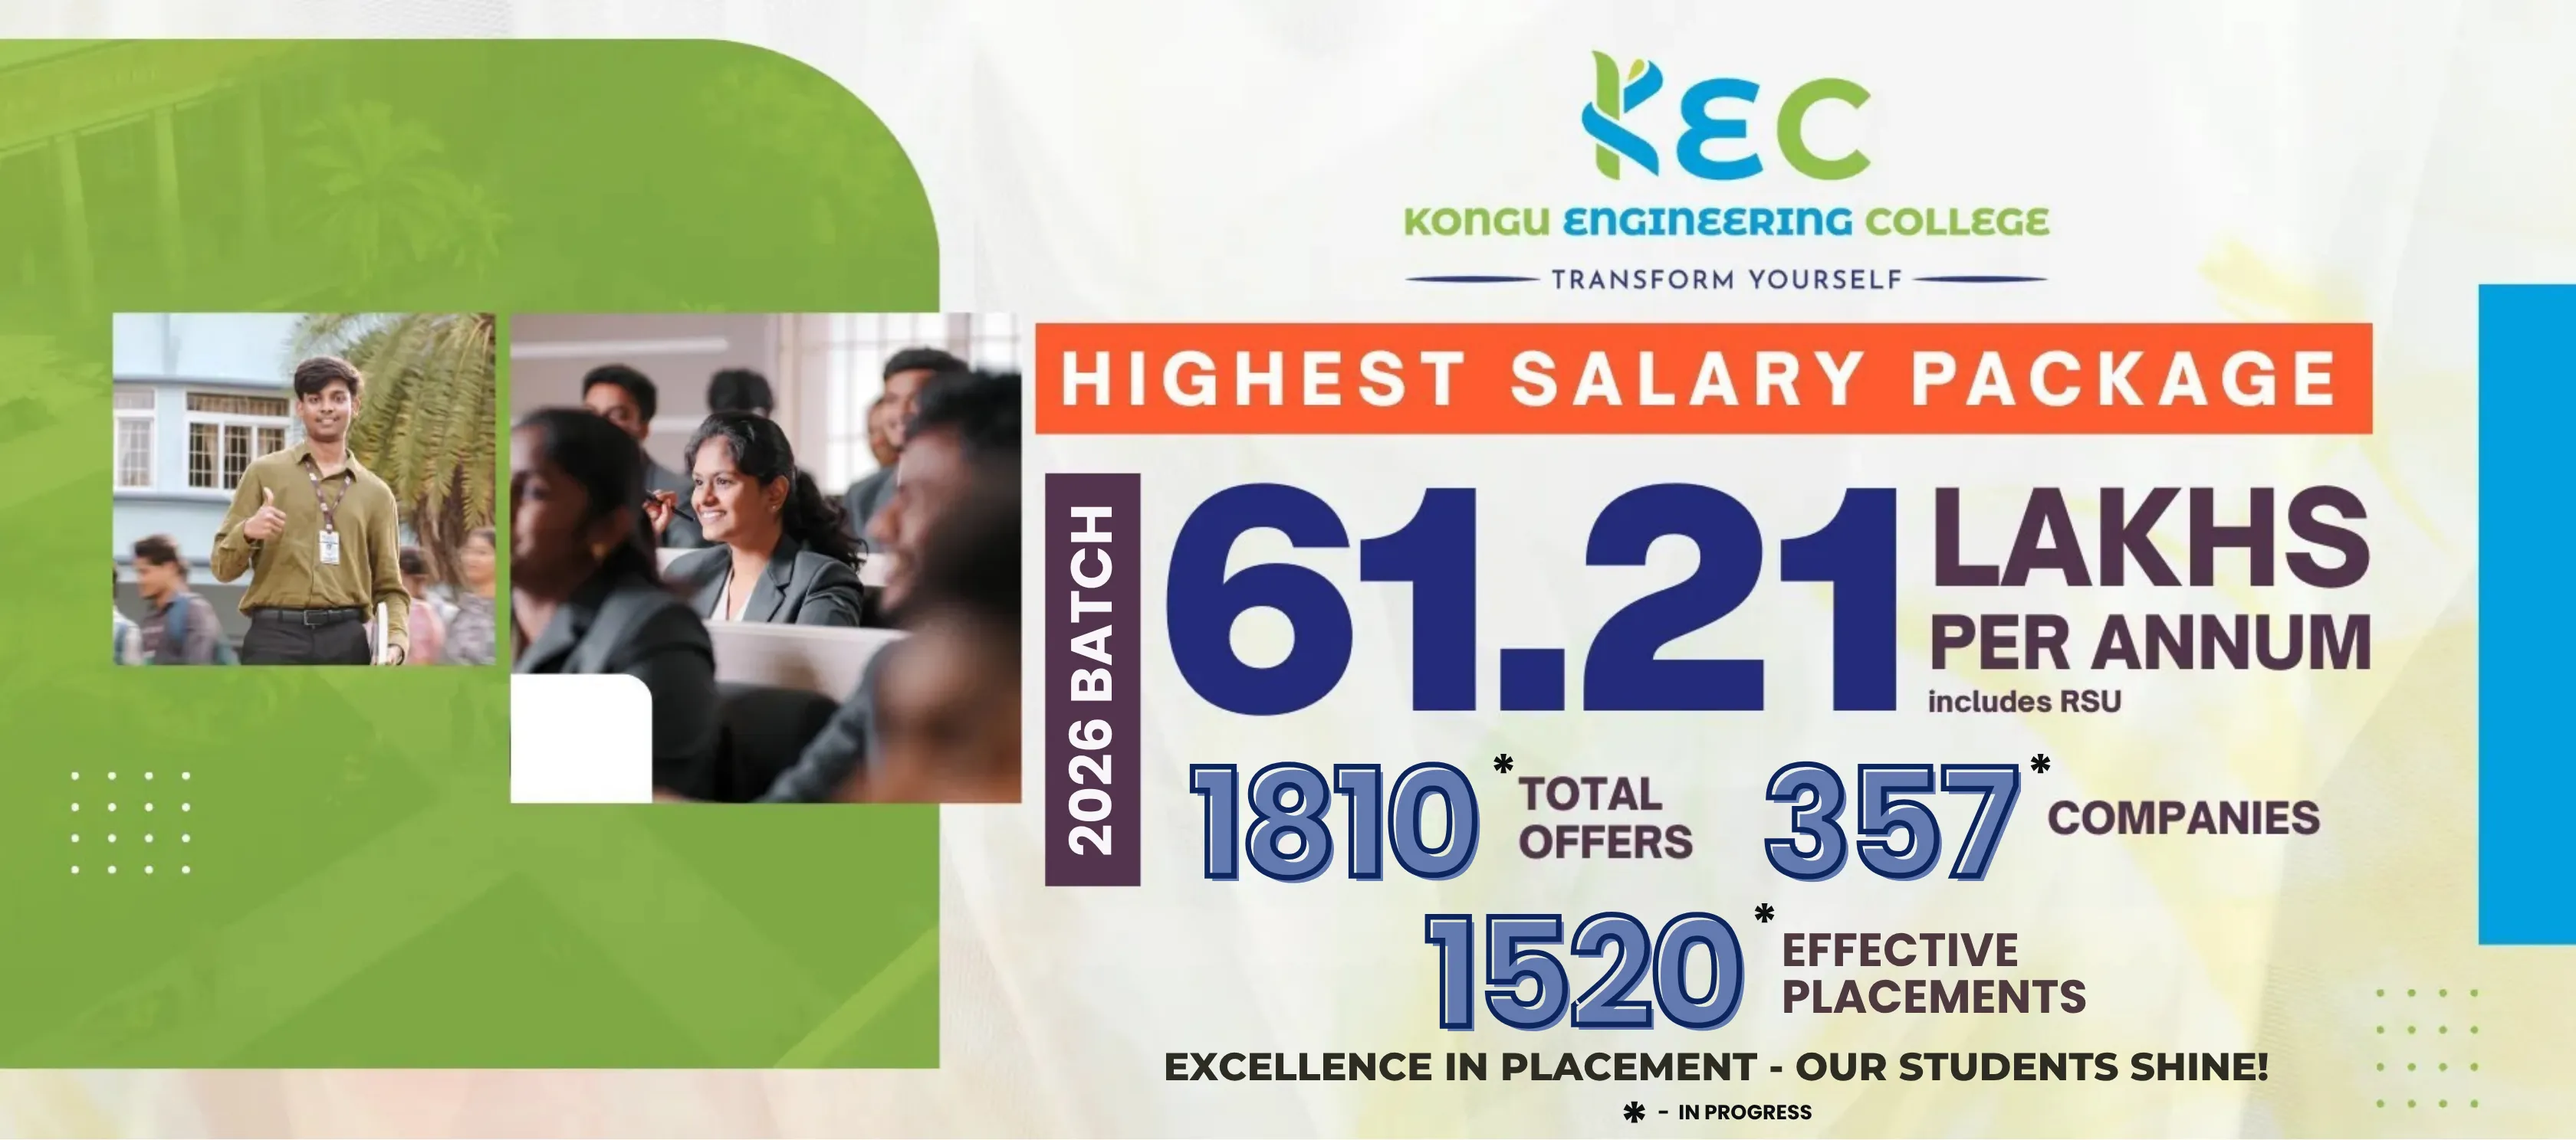
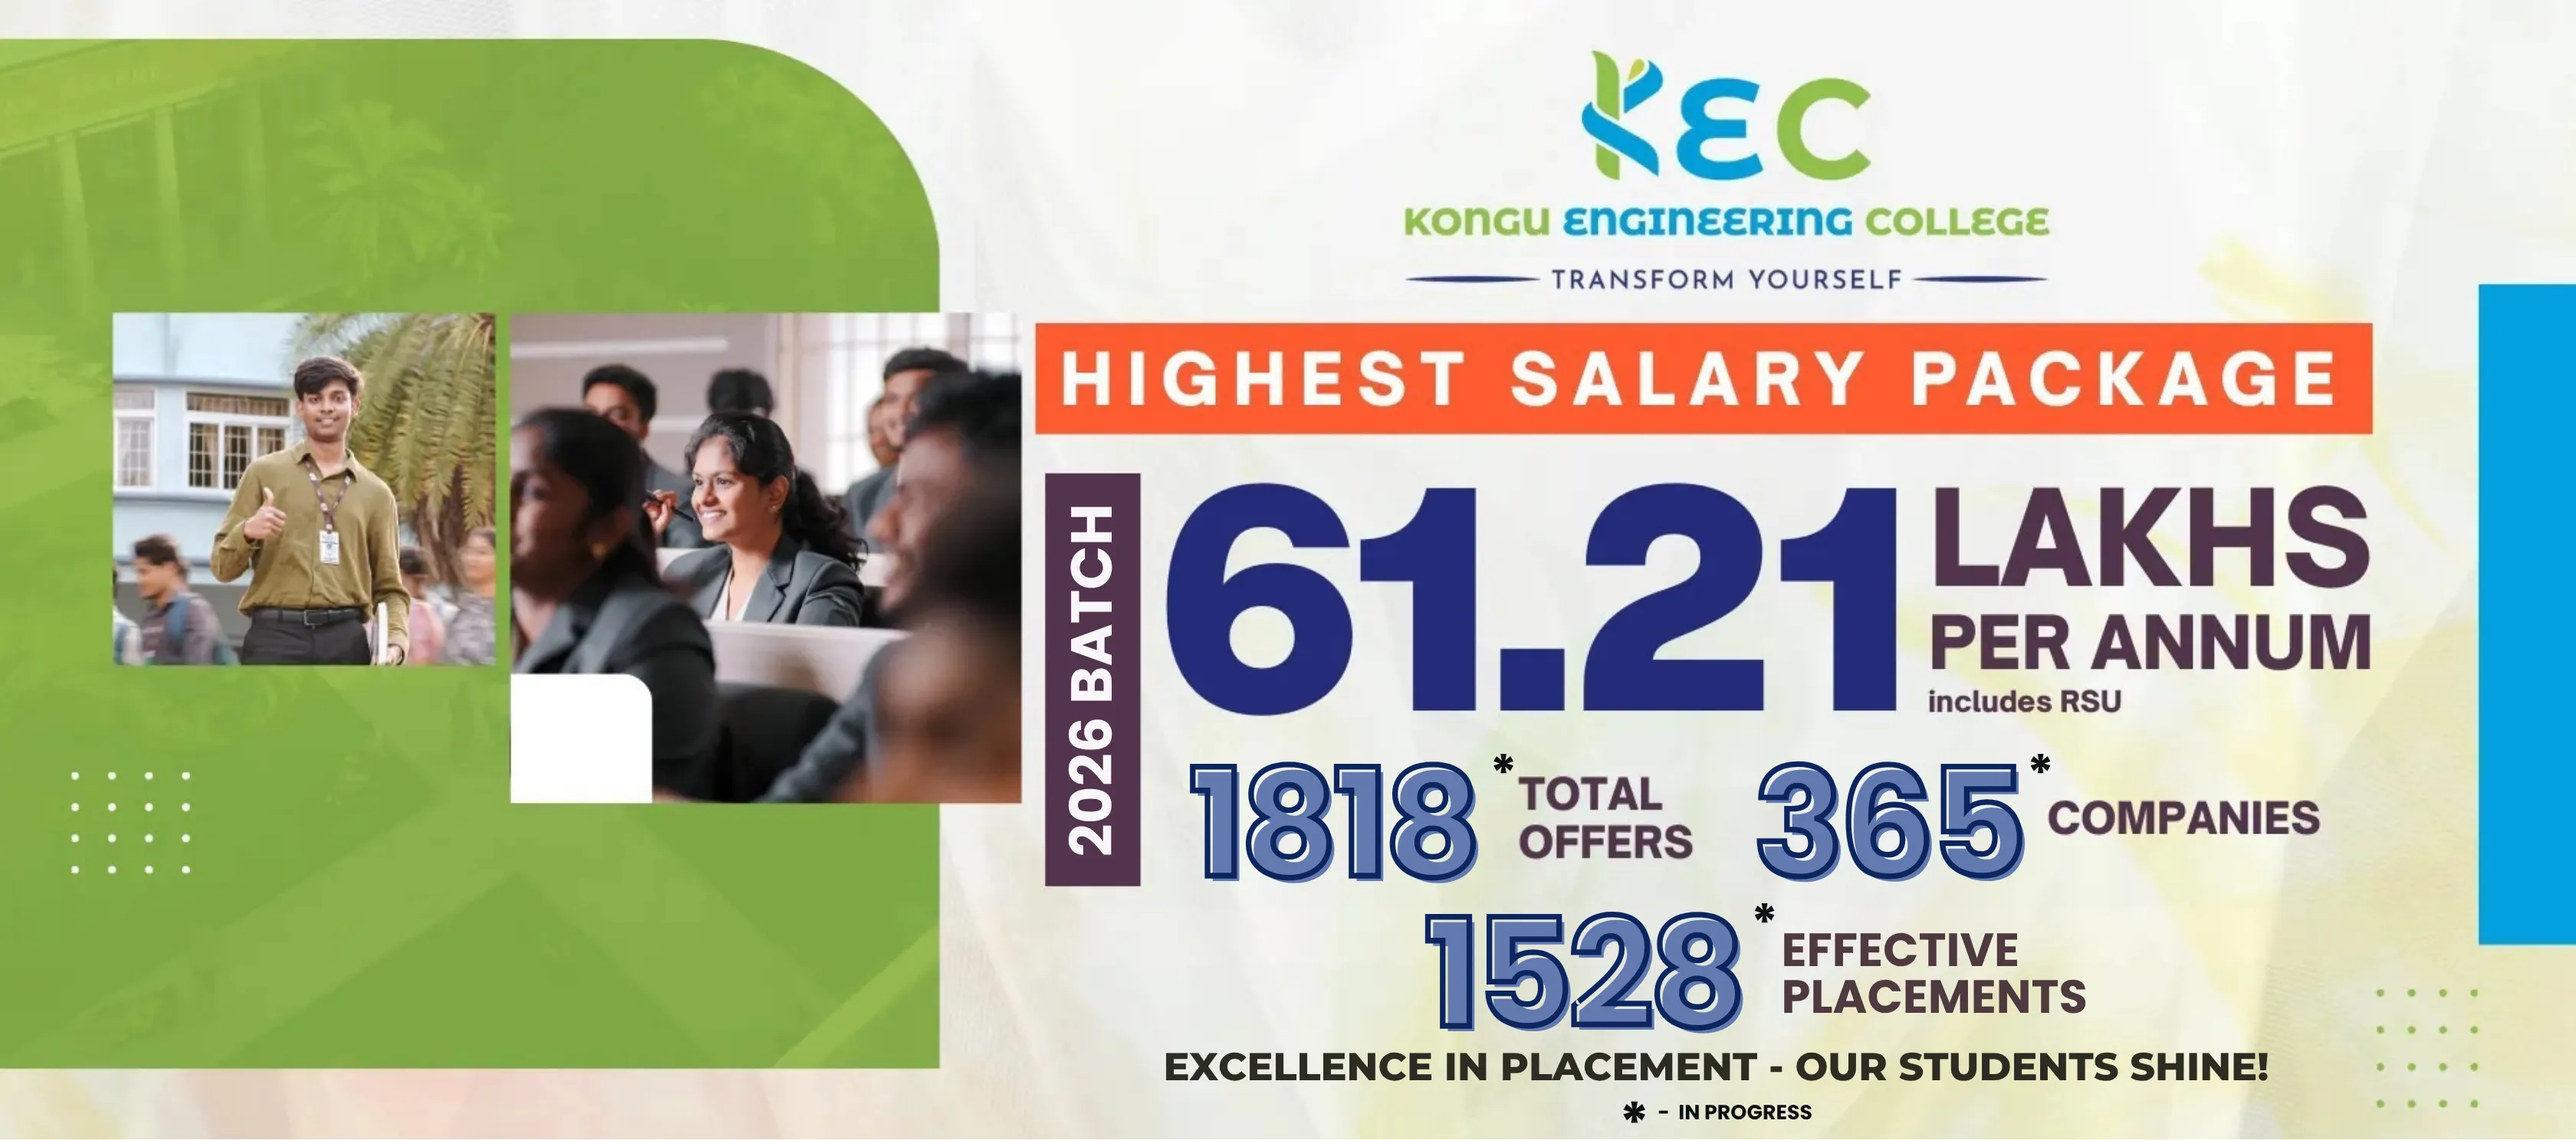
placement updated

Changed region(s): [[0.6875, 0.6492, 0.8125, 0.7728], [0.625, 0.8038, 0.6875, 0.9274], [0.5312, 0.6801, 0.5938, 0.7728]]

diff --git a/src/components/ExtraPages/PlacementSection/Placement.jsx b/src/components/ExtraPages/PlacementSection/Placement.jsx
@@ -168,13 +168,6 @@ export const teamData = [
     mobile: "7373675915",
     img: team4,
   },
-  {
-    id: 5,
-    name: "Mr.G.Srivaths Karthic",
-    role: "Assistant Placement Officer",
-    mobile: "9442751513",
-    img: team5,
-  },
 ];
 
 const Placement = () => {
@@ -412,7 +405,7 @@ const Placement = () => {
                 <img src={card1} alt="Companies Visited Icon" />
               </div>
 
-              <div className="Placement-stat-valu">357</div>
+              <div className="Placement-stat-valu">365</div>
             </div>
 
             <div className="ps-stat-card blue center">
@@ -424,7 +417,7 @@ const Placement = () => {
                 <img src={card2} alt="Students Placed Icon" />
               </div>
 
-              <div className="Placement-stat-valu">1520</div>
+              <div className="Placement-stat-valu">1528</div>
             </div>
 
             <div className="ps-stat-card green">

diff --git a/src/components/Admission/AdmissionPage.jsx b/src/components/Admission/AdmissionPage.jsx
@@ -73,7 +73,7 @@ const AdmissionPage = () => {
     {
       q: "How are the placements at KEC?",
       // ✅ UPDATED: Shows Current (25-26) and Previous (24-25) Stats
-      a: "Placements are excellent. For the academic year 2025-26, we have already secured 1810+ offers with a highest package of 61.21 LPA. In the academic year 2024-25, we achieved 1693 offers with a highest package of 61.21 LPA.",
+      a: "Placements are excellent. For the academic year 2025-26, we have already secured 1818+ offers with a highest package of 61.21 LPA. In the academic year 2024-25, we achieved 1693 offers with a highest package of 61.21 LPA.",
     },
     {
       q: "Is there transport facility available?",
